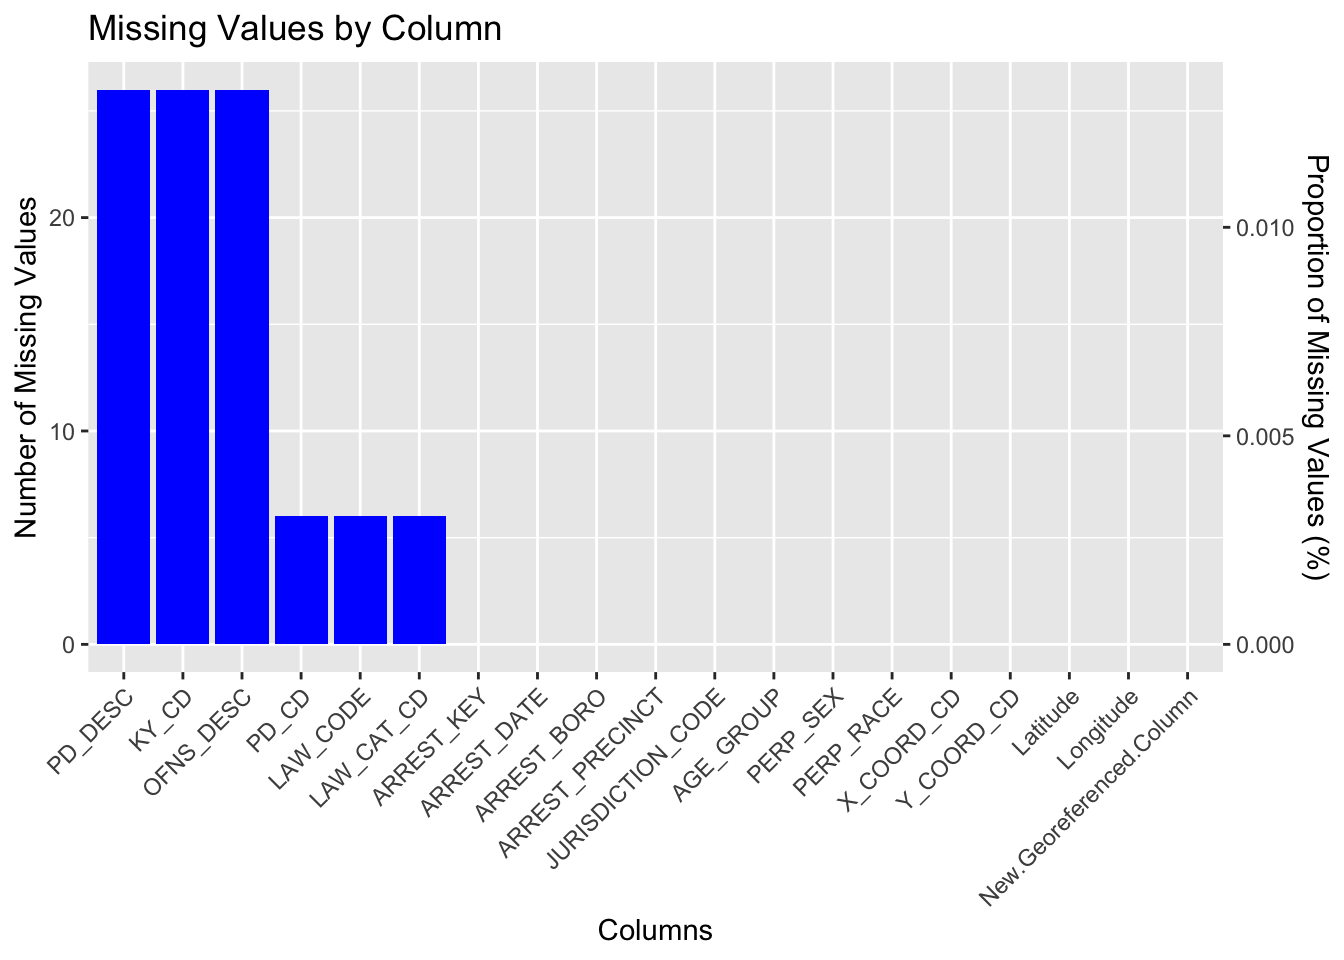
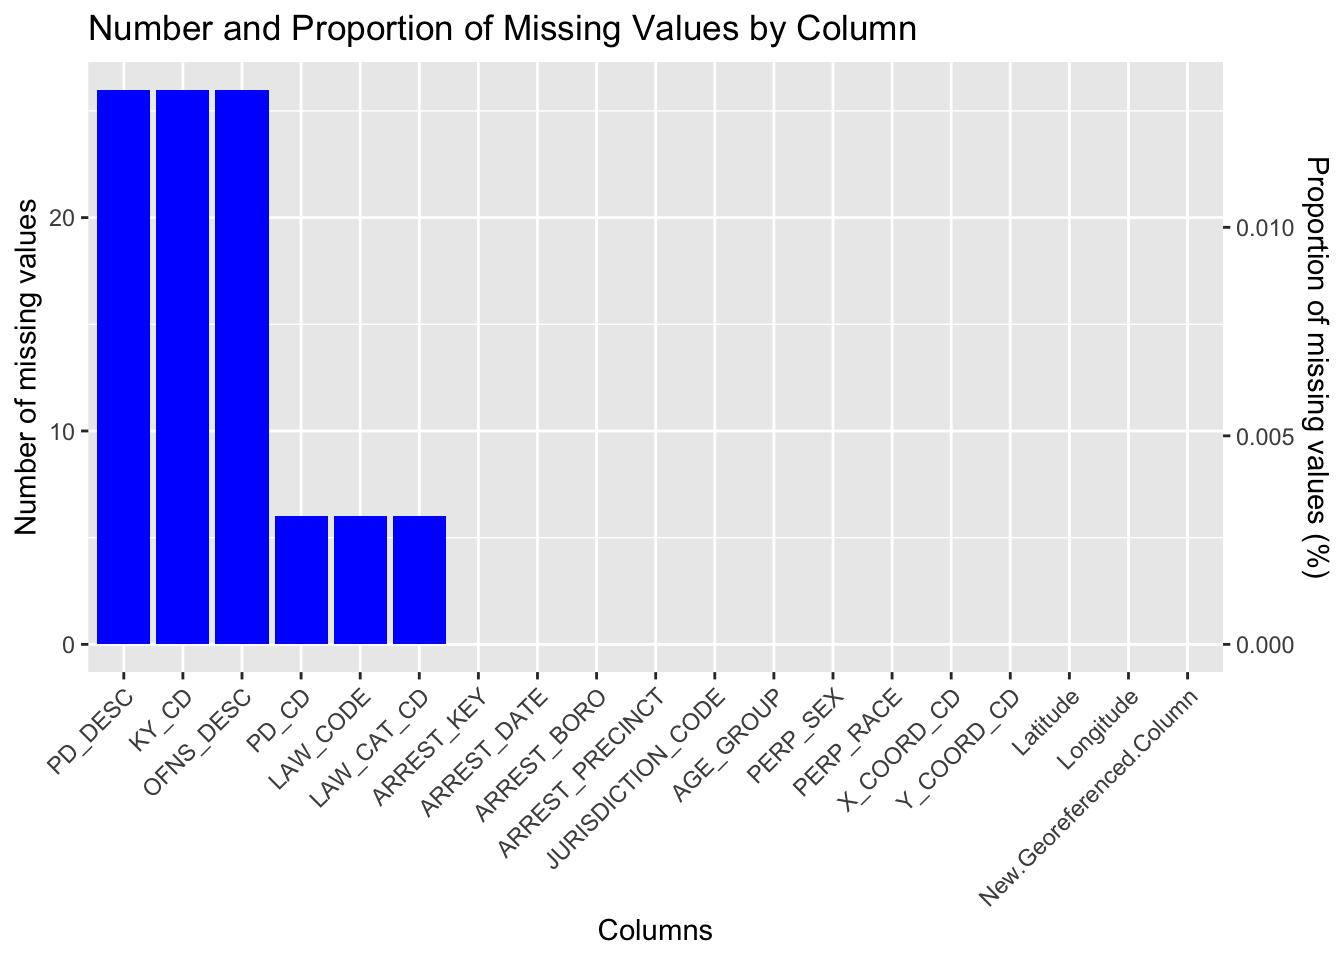
description of missing data

Changed region(s): [[0.0625, 0.0, 0.6875, 0.0625], [0.9688, 0.1562, 1.0, 0.625], [0.0, 0.1875, 0.0312, 0.5625]]

diff --git a/docs/data.html b/docs/data.html
@@ -184,6 +184,7 @@ pre > code.sourceCode > span > a:first-child::before { text-decoration: underlin
    
   <ul>
   <li><a href="#description" id="toc-description" class="nav-link active" data-scroll-target="#description"><span class="header-section-number">2.1</span> Description</a></li>
+  <li><a href="#missing-value-analysis" id="toc-missing-value-analysis" class="nav-link" data-scroll-target="#missing-value-analysis"><span class="header-section-number">2.2</span> Missing value analysis</a></li>
   </ul>
 <div class="toc-actions"><ul><li><a href="https://github.com/99ning/nypd-arrest-visualization/edit/main/data.qmd" class="toc-action"><i class="bi bi-github"></i>Edit this page</a></li><li><a href="https://github.com/99ning/nypd-arrest-visualization/issues/new" class="toc-action"><i class="bi empty"></i>Report an issue</a></li></ul></div></nav>
     </div>
@@ -214,7 +215,10 @@ pre > code.sourceCode > span > a:first-child::before { text-decoration: underlin
 <p>The data source for this project is the “NYPD Arrest Data (Year to Date)” dataset, available through NYC OpenData. This data is collected by the New York Police Department (NYPD) and is reviewed by the Office of Management Analysis and Planning. Each record represents an arrest made in NYC by the NYPD, including details such as the type of crime, location, time of enforcement, and perpetrator’s demographics.</p>
 <p>The data is in tabular format, consisting of 19 columns and approximately 195,000 rows, and is manually updated every quarter, with the data format including both numerical and text categorical fields. The available attachment, “NYPD_Arrest_YTD_DataDictionary.xlsx,” contains a detailed description of each variable.</p>
 <p>However, the dataset has several potential issues, including inconsistencies or delays due to manual updates, and outdated entries because of the quarterly update frequency. Null values are frequently present in certain fields, as some specific data were not collected or were unknown at the time of the report. Additionally, geo-location inaccuracies may affect spatial analysis since some arrests are represented by approximate coordinates.</p>
-<p>The dataset is available in CSV format on the NYC OpenData portal, which can be directly exported, downloaded locally, and imported into RStudio using the read.csv() function. ## Missing value analysis</p>
+<p>The dataset is available in CSV format on the NYC OpenData portal, which can be directly exported, downloaded locally, and imported into RStudio using the read.csv() function.</p>
+</section>
+<section id="missing-value-analysis" class="level2" data-number="2.2">
+<h2 data-number="2.2" class="anchored" data-anchor-id="missing-value-analysis"><span class="header-section-number">2.2</span> Missing value analysis</h2>
 <div class="cell">
 <details class="code-fold">
 <summary>Code</summary>
@@ -234,14 +238,14 @@ pre > code.sourceCode > span > a:first-child::before { text-decoration: underlin
 <span id="cb2-5"><a href="#cb2-5" aria-hidden="true" tabindex="-1"></a>  <span class="fu">arrange</span>(<span class="fu">desc</span>(Missing_Values)) <span class="sc">|&gt;</span></span>
 <span id="cb2-6"><a href="#cb2-6" aria-hidden="true" tabindex="-1"></a>  <span class="fu">mutate</span>(<span class="at">Column =</span> <span class="fu">factor</span>(Column, <span class="at">levels =</span> Column)) <span class="sc">|&gt;</span></span>
 <span id="cb2-7"><a href="#cb2-7" aria-hidden="true" tabindex="-1"></a>  <span class="fu">mutate</span>(<span class="at">Proportion =</span> Missing_Values <span class="sc">/</span> <span class="fu">nrow</span>(data)) </span>
-<span id="cb2-8"><a href="#cb2-8" aria-hidden="true" tabindex="-1"></a>  </span>
+<span id="cb2-8"><a href="#cb2-8" aria-hidden="true" tabindex="-1"></a></span>
 <span id="cb2-9"><a href="#cb2-9" aria-hidden="true" tabindex="-1"></a><span class="fu">ggplot</span>(missing_summary, <span class="fu">aes</span>(<span class="at">x =</span> Column, <span class="at">y =</span> Missing_Values)) <span class="sc">+</span></span>
 <span id="cb2-10"><a href="#cb2-10" aria-hidden="true" tabindex="-1"></a>  <span class="fu">geom_bar</span>(<span class="at">stat =</span> <span class="st">"identity"</span>, <span class="at">fill =</span> <span class="st">"blue"</span>) <span class="sc">+</span></span>
-<span id="cb2-11"><a href="#cb2-11" aria-hidden="true" tabindex="-1"></a>  <span class="fu">labs</span>(<span class="at">title =</span> <span class="st">"Missing Values by Column"</span>, <span class="at">x =</span> <span class="st">"Columns"</span>, <span class="at">y =</span> <span class="st">"Number of Missing Values"</span>) <span class="sc">+</span></span>
+<span id="cb2-11"><a href="#cb2-11" aria-hidden="true" tabindex="-1"></a>  <span class="fu">labs</span>(<span class="at">title =</span> <span class="st">"Number and Proportion of Missing Values by Column"</span>, <span class="at">x =</span> <span class="st">"Columns"</span>, <span class="at">y =</span> <span class="st">"Number of missing values"</span>) <span class="sc">+</span></span>
 <span id="cb2-12"><a href="#cb2-12" aria-hidden="true" tabindex="-1"></a>  <span class="fu">theme</span>(<span class="at">axis.text.x =</span> <span class="fu">element_text</span>(<span class="at">angle =</span> <span class="dv">45</span>, <span class="at">hjust =</span> <span class="dv">1</span>)) <span class="sc">+</span></span>
 <span id="cb2-13"><a href="#cb2-13" aria-hidden="true" tabindex="-1"></a>  <span class="fu">scale_y_continuous</span>(</span>
-<span id="cb2-14"><a href="#cb2-14" aria-hidden="true" tabindex="-1"></a>    <span class="at">name =</span> <span class="st">"Number of Missing Values"</span>,</span>
-<span id="cb2-15"><a href="#cb2-15" aria-hidden="true" tabindex="-1"></a>    <span class="at">sec.axis =</span> <span class="fu">sec_axis</span>(<span class="sc">~</span> . <span class="sc">/</span> <span class="fu">nrow</span>(data) <span class="sc">*</span> <span class="dv">100</span>, <span class="at">name =</span> <span class="st">"Proportion of Missing Values (%)"</span>)</span>
+<span id="cb2-14"><a href="#cb2-14" aria-hidden="true" tabindex="-1"></a>    <span class="at">name =</span> <span class="st">"Number of missing values"</span>,</span>
+<span id="cb2-15"><a href="#cb2-15" aria-hidden="true" tabindex="-1"></a>    <span class="at">sec.axis =</span> <span class="fu">sec_axis</span>(<span class="sc">~</span> . <span class="sc">/</span> <span class="fu">nrow</span>(data) <span class="sc">*</span> <span class="dv">100</span>, <span class="at">name =</span> <span class="st">"Proportion of missing values (%)"</span>)</span>
 <span id="cb2-16"><a href="#cb2-16" aria-hidden="true" tabindex="-1"></a>  )</span></code><button title="Copy to Clipboard" class="code-copy-button"><i class="bi"></i></button></pre></div>
 </details>
 <div class="cell-output-display">
@@ -252,29 +256,15 @@ pre > code.sourceCode > span > a:first-child::before { text-decoration: underlin
 </div>
 </div>
 </div>
+<p>The columns <code>PD_DESC</code>, <code>KY_CD</code>, and <code>OFNS_DESC</code> have the highest number of missing values (26 rows each) and the columns <code>PD_CD</code>, <code>LAW_CODE</code>, and <code>LAW_CAT_CD</code> have fewer missing values (6 rows each). All other columns have no missing values. This discrepancy arises because certain data, like the arrest date, borough of arrest and perpetrator’s demographic information, are straightforward to record during the initial recording process. In contrast, classifying the level of offense and providing the description of internal classification often require more investigation or process.</p>
+<p>The missing data in the dataset is negligible in the context of the overall dataset size, constituting less than 0.01%, indicating that the impact of missing data on analyses is minimal.</p>
 <div class="cell">
 <details class="code-fold">
 <summary>Code</summary>
 <div class="sourceCode cell-code" id="cb3"><pre class="sourceCode r code-with-copy"><code class="sourceCode r"><span id="cb3-1"><a href="#cb3-1" aria-hidden="true" tabindex="-1"></a>data_with_na <span class="ot">&lt;-</span> data <span class="sc">|&gt;</span></span>
 <span id="cb3-2"><a href="#cb3-2" aria-hidden="true" tabindex="-1"></a>  <span class="fu">filter</span>(<span class="fu">if_any</span>(<span class="fu">everything</span>(), is.na))</span>
-<span id="cb3-3"><a href="#cb3-3" aria-hidden="true" tabindex="-1"></a></span>
-<span id="cb3-4"><a href="#cb3-4" aria-hidden="true" tabindex="-1"></a>boro_na_summary <span class="ot">&lt;-</span> data_with_na <span class="sc">|&gt;</span></span>
-<span id="cb3-5"><a href="#cb3-5" aria-hidden="true" tabindex="-1"></a>  <span class="fu">group_by</span>(ARREST_BORO) <span class="sc">|&gt;</span></span>
-<span id="cb3-6"><a href="#cb3-6" aria-hidden="true" tabindex="-1"></a>  <span class="fu">summarise</span>(<span class="at">Missing_Count =</span> <span class="fu">n</span>()) <span class="sc">|&gt;</span></span>
-<span id="cb3-7"><a href="#cb3-7" aria-hidden="true" tabindex="-1"></a>  <span class="fu">arrange</span>(<span class="fu">desc</span>(Missing_Count)) <span class="sc">|&gt;</span></span>
-<span id="cb3-8"><a href="#cb3-8" aria-hidden="true" tabindex="-1"></a>  <span class="fu">mutate</span>(<span class="at">ARREST_BORO =</span> <span class="fu">case_when</span>(</span>
-<span id="cb3-9"><a href="#cb3-9" aria-hidden="true" tabindex="-1"></a>    ARREST_BORO <span class="sc">==</span> <span class="st">"B"</span> <span class="sc">~</span> <span class="st">"Bronx"</span>,</span>
-<span id="cb3-10"><a href="#cb3-10" aria-hidden="true" tabindex="-1"></a>    ARREST_BORO <span class="sc">==</span> <span class="st">"S"</span> <span class="sc">~</span> <span class="st">"Staten Island"</span>,</span>
-<span id="cb3-11"><a href="#cb3-11" aria-hidden="true" tabindex="-1"></a>    ARREST_BORO <span class="sc">==</span> <span class="st">"K"</span> <span class="sc">~</span> <span class="st">"Brooklyn"</span>,</span>
-<span id="cb3-12"><a href="#cb3-12" aria-hidden="true" tabindex="-1"></a>    ARREST_BORO <span class="sc">==</span> <span class="st">"M"</span> <span class="sc">~</span> <span class="st">"Manhattan"</span>,</span>
-<span id="cb3-13"><a href="#cb3-13" aria-hidden="true" tabindex="-1"></a>    ARREST_BORO <span class="sc">==</span> <span class="st">"Q"</span> <span class="sc">~</span> <span class="st">"Queens"</span></span>
-<span id="cb3-14"><a href="#cb3-14" aria-hidden="true" tabindex="-1"></a>  )) <span class="sc">|&gt;</span></span>
-<span id="cb3-15"><a href="#cb3-15" aria-hidden="true" tabindex="-1"></a>  <span class="fu">mutate</span>(<span class="at">ARREST_BORO =</span> <span class="fu">factor</span>(ARREST_BORO, <span class="at">levels =</span> ARREST_BORO))</span>
-<span id="cb3-16"><a href="#cb3-16" aria-hidden="true" tabindex="-1"></a>  </span>
-<span id="cb3-17"><a href="#cb3-17" aria-hidden="true" tabindex="-1"></a><span class="fu">ggplot</span>(boro_na_summary, <span class="fu">aes</span>(<span class="at">x =</span> ARREST_BORO, <span class="at">y =</span> Missing_Count)) <span class="sc">+</span></span>
-<span id="cb3-18"><a href="#cb3-18" aria-hidden="true" tabindex="-1"></a>  <span class="fu">geom_bar</span>(<span class="at">stat =</span> <span class="st">"identity"</span>, <span class="at">fill =</span> <span class="st">"lightblue"</span>) <span class="sc">+</span></span>
-<span id="cb3-19"><a href="#cb3-19" aria-hidden="true" tabindex="-1"></a>  <span class="fu">labs</span>(<span class="at">title =</span> <span class="st">"Missing Data by Borough"</span>, <span class="at">x =</span> <span class="st">"Arrest Borough"</span>, <span class="at">y =</span> <span class="st">"Count of Missing Rows"</span>) <span class="sc">+</span></span>
-<span id="cb3-20"><a href="#cb3-20" aria-hidden="true" tabindex="-1"></a>  <span class="fu">theme_minimal</span>()</span></code><button title="Copy to Clipboard" class="code-copy-button"><i class="bi"></i></button></pre></div>
+<span id="cb3-3"><a href="#cb3-3" aria-hidden="true" tabindex="-1"></a><span class="fu">vis_miss</span>(data_with_na) <span class="sc">+</span></span>
+<span id="cb3-4"><a href="#cb3-4" aria-hidden="true" tabindex="-1"></a>  <span class="fu">labs</span>(<span class="at">title =</span> <span class="st">"Heatmap of missing values across rows and columns"</span>, <span class="at">x =</span> <span class="st">"Columns"</span>, <span class="at">y =</span> <span class="st">"Rows"</span>)</span></code><button title="Copy to Clipboard" class="code-copy-button"><i class="bi"></i></button></pre></div>
 </details>
 <div class="cell-output-display">
 <div>
@@ -284,11 +274,27 @@ pre > code.sourceCode > span > a:first-child::before { text-decoration: underlin
 </div>
 </div>
 </div>
+<p>The heatmap reveals that missing values are concentrated in a few rows and specific columns, with no widespread gaps. This suggests missing data is likely due to specific incidents or cases rather than systemic issues. In particular, it might be the instances where information was not available or unknown at the time of the report.</p>
 <div class="cell">
 <details class="code-fold">
 <summary>Code</summary>
-<div class="sourceCode cell-code" id="cb4"><pre class="sourceCode r code-with-copy"><code class="sourceCode r"><span id="cb4-1"><a href="#cb4-1" aria-hidden="true" tabindex="-1"></a><span class="fu">vis_miss</span>(data_with_na) <span class="sc">+</span></span>
-<span id="cb4-2"><a href="#cb4-2" aria-hidden="true" tabindex="-1"></a>  <span class="fu">labs</span>(<span class="at">title =</span> <span class="st">"Heatmap of Missing Data"</span>, <span class="at">x =</span> <span class="st">"Columns"</span>, <span class="at">y =</span> <span class="st">"Rows"</span>)</span></code><button title="Copy to Clipboard" class="code-copy-button"><i class="bi"></i></button></pre></div>
+<div class="sourceCode cell-code" id="cb4"><pre class="sourceCode r code-with-copy"><code class="sourceCode r"><span id="cb4-1"><a href="#cb4-1" aria-hidden="true" tabindex="-1"></a>boro_na_summary <span class="ot">&lt;-</span> data_with_na <span class="sc">|&gt;</span></span>
+<span id="cb4-2"><a href="#cb4-2" aria-hidden="true" tabindex="-1"></a>  <span class="fu">group_by</span>(ARREST_BORO) <span class="sc">|&gt;</span></span>
+<span id="cb4-3"><a href="#cb4-3" aria-hidden="true" tabindex="-1"></a>  <span class="fu">summarise</span>(<span class="at">Missing_Count =</span> <span class="fu">n</span>()) <span class="sc">|&gt;</span></span>
+<span id="cb4-4"><a href="#cb4-4" aria-hidden="true" tabindex="-1"></a>  <span class="fu">arrange</span>(<span class="fu">desc</span>(Missing_Count)) <span class="sc">|&gt;</span></span>
+<span id="cb4-5"><a href="#cb4-5" aria-hidden="true" tabindex="-1"></a>  <span class="fu">mutate</span>(<span class="at">ARREST_BORO =</span> <span class="fu">case_when</span>(</span>
+<span id="cb4-6"><a href="#cb4-6" aria-hidden="true" tabindex="-1"></a>    ARREST_BORO <span class="sc">==</span> <span class="st">"B"</span> <span class="sc">~</span> <span class="st">"Bronx"</span>,</span>
+<span id="cb4-7"><a href="#cb4-7" aria-hidden="true" tabindex="-1"></a>    ARREST_BORO <span class="sc">==</span> <span class="st">"S"</span> <span class="sc">~</span> <span class="st">"Staten Island"</span>,</span>
+<span id="cb4-8"><a href="#cb4-8" aria-hidden="true" tabindex="-1"></a>    ARREST_BORO <span class="sc">==</span> <span class="st">"K"</span> <span class="sc">~</span> <span class="st">"Brooklyn"</span>,</span>
+<span id="cb4-9"><a href="#cb4-9" aria-hidden="true" tabindex="-1"></a>    ARREST_BORO <span class="sc">==</span> <span class="st">"M"</span> <span class="sc">~</span> <span class="st">"Manhattan"</span>,</span>
+<span id="cb4-10"><a href="#cb4-10" aria-hidden="true" tabindex="-1"></a>    ARREST_BORO <span class="sc">==</span> <span class="st">"Q"</span> <span class="sc">~</span> <span class="st">"Queens"</span></span>
+<span id="cb4-11"><a href="#cb4-11" aria-hidden="true" tabindex="-1"></a>  )) <span class="sc">|&gt;</span></span>
+<span id="cb4-12"><a href="#cb4-12" aria-hidden="true" tabindex="-1"></a>  <span class="fu">mutate</span>(<span class="at">ARREST_BORO =</span> <span class="fu">factor</span>(ARREST_BORO, <span class="at">levels =</span> ARREST_BORO))</span>
+<span id="cb4-13"><a href="#cb4-13" aria-hidden="true" tabindex="-1"></a>  </span>
+<span id="cb4-14"><a href="#cb4-14" aria-hidden="true" tabindex="-1"></a><span class="fu">ggplot</span>(boro_na_summary, <span class="fu">aes</span>(<span class="at">x =</span> ARREST_BORO, <span class="at">y =</span> Missing_Count)) <span class="sc">+</span></span>
+<span id="cb4-15"><a href="#cb4-15" aria-hidden="true" tabindex="-1"></a>  <span class="fu">geom_bar</span>(<span class="at">stat =</span> <span class="st">"identity"</span>, <span class="at">fill =</span> <span class="st">"lightblue"</span>) <span class="sc">+</span></span>
+<span id="cb4-16"><a href="#cb4-16" aria-hidden="true" tabindex="-1"></a>  <span class="fu">scale_y_continuous</span>(<span class="at">breaks =</span> <span class="fu">seq</span>(<span class="dv">0</span>, <span class="dv">10</span>, <span class="at">by =</span> <span class="dv">2</span>)) <span class="sc">+</span></span>
+<span id="cb4-17"><a href="#cb4-17" aria-hidden="true" tabindex="-1"></a>  <span class="fu">labs</span>(<span class="at">title =</span> <span class="st">"Distribution of missing values by Arrest Borough"</span>, <span class="at">x =</span> <span class="st">"Arrest Borough"</span>, <span class="at">y =</span> <span class="st">"Count of Missing Rows"</span>)</span></code><button title="Copy to Clipboard" class="code-copy-button"><i class="bi"></i></button></pre></div>
 </details>
 <div class="cell-output-display">
 <div>
@@ -298,6 +304,7 @@ pre > code.sourceCode > span > a:first-child::before { text-decoration: underlin
 </div>
 </div>
 </div>
+<p>According to this bar plot, Queens has the highest number of missing values, followed by Brooklyn and Manhattan, while Bronx has the least. This distribution could reflect operational or reporting differences between boroughs.</p>
 
 
 </section>

diff --git a/docs/index.html b/docs/index.html
@@ -152,7 +152,6 @@ ul.task-list li input[type="checkbox"] {
    
   <ul>
   <li><a href="#introduction" id="toc-introduction" class="nav-link active" data-scroll-target="#introduction"><span class="header-section-number">1</span> Introduction</a></li>
-  <li><a href="#first-version" id="toc-first-version" class="nav-link" data-scroll-target="#first-version"><span class="header-section-number">2</span> first version</a></li>
   </ul>
 <div class="toc-actions"><ul><li><a href="https://github.com/99ning/nypd-arrest-visualization/edit/main/index.qmd" class="toc-action"><i class="bi bi-github"></i>Edit this page</a></li><li><a href="https://github.com/99ning/nypd-arrest-visualization/issues/new" class="toc-action"><i class="bi empty"></i>Report an issue</a></li></ul></div></nav>
     </div>
@@ -195,16 +194,6 @@ ul.task-list li input[type="checkbox"] {
 <h1 data-number="1"><span class="header-section-number">1</span> Introduction</h1>
 <p>As new students in NYC, we are constantly exposed to crime-related updates through Clery Crime Alerts from Columbia University, which emphasize the importance of staying informed about local safety concerns. Additionally, Columbia’s initiatives, such as self-defense classes and situational awareness events, highlight the need to understand crime dynamics in our community. Beyond personal safety, this topic provides us an opportunity to examine broader societal concerns, including the effectiveness of public safety policies and the equity of law enforcement. This motivated us to explore NYC’s arrest data to gain deeper insights about the trend and distributions across the city.</p>
 <p>Our primary focus is to analyze and highlight the crime frequency distribution across precincts in NYC from January to September 2024, as understanding these geographical patterns is crucial for identifying areas with higher or lower crime rates. Additionally, we aim to uncover temporal trends in arrests, such as fluctuations by month or time of day, to better understand when crimes are more likely to occur. Furthermore, we seek to identify the most prevalent types of crimes and examine how these vary across demographic groups, including age, sex, and race, to provide a comprehensive view of NYC’s crime dynamics.</p>
-</section>
-<section id="first-version" class="level1" data-number="2">
-<h1 data-number="2"><span class="header-section-number">2</span> first version</h1>
-<p>This dataset captures detailed information about arrests, including crime types, locations, times, and perpetrator demographics. By analyzing this data, we aim to investigate and visualize several key questions:</p>
-<ol type="1">
-<li>What are the overall crime patterns in NYC from January to September 2024?</li>
-<li>How are crimes distributed across police boroughs, precincts, and demographic categories such as age, sex, and race?</li>
-<li>Are there discernible temporal trends in arrests, such as variations by month or time of day?</li>
-<li>What are the most common types of crimes, and how do these vary geographically and demographically?</li>
-</ol>
 
 
 </section>
